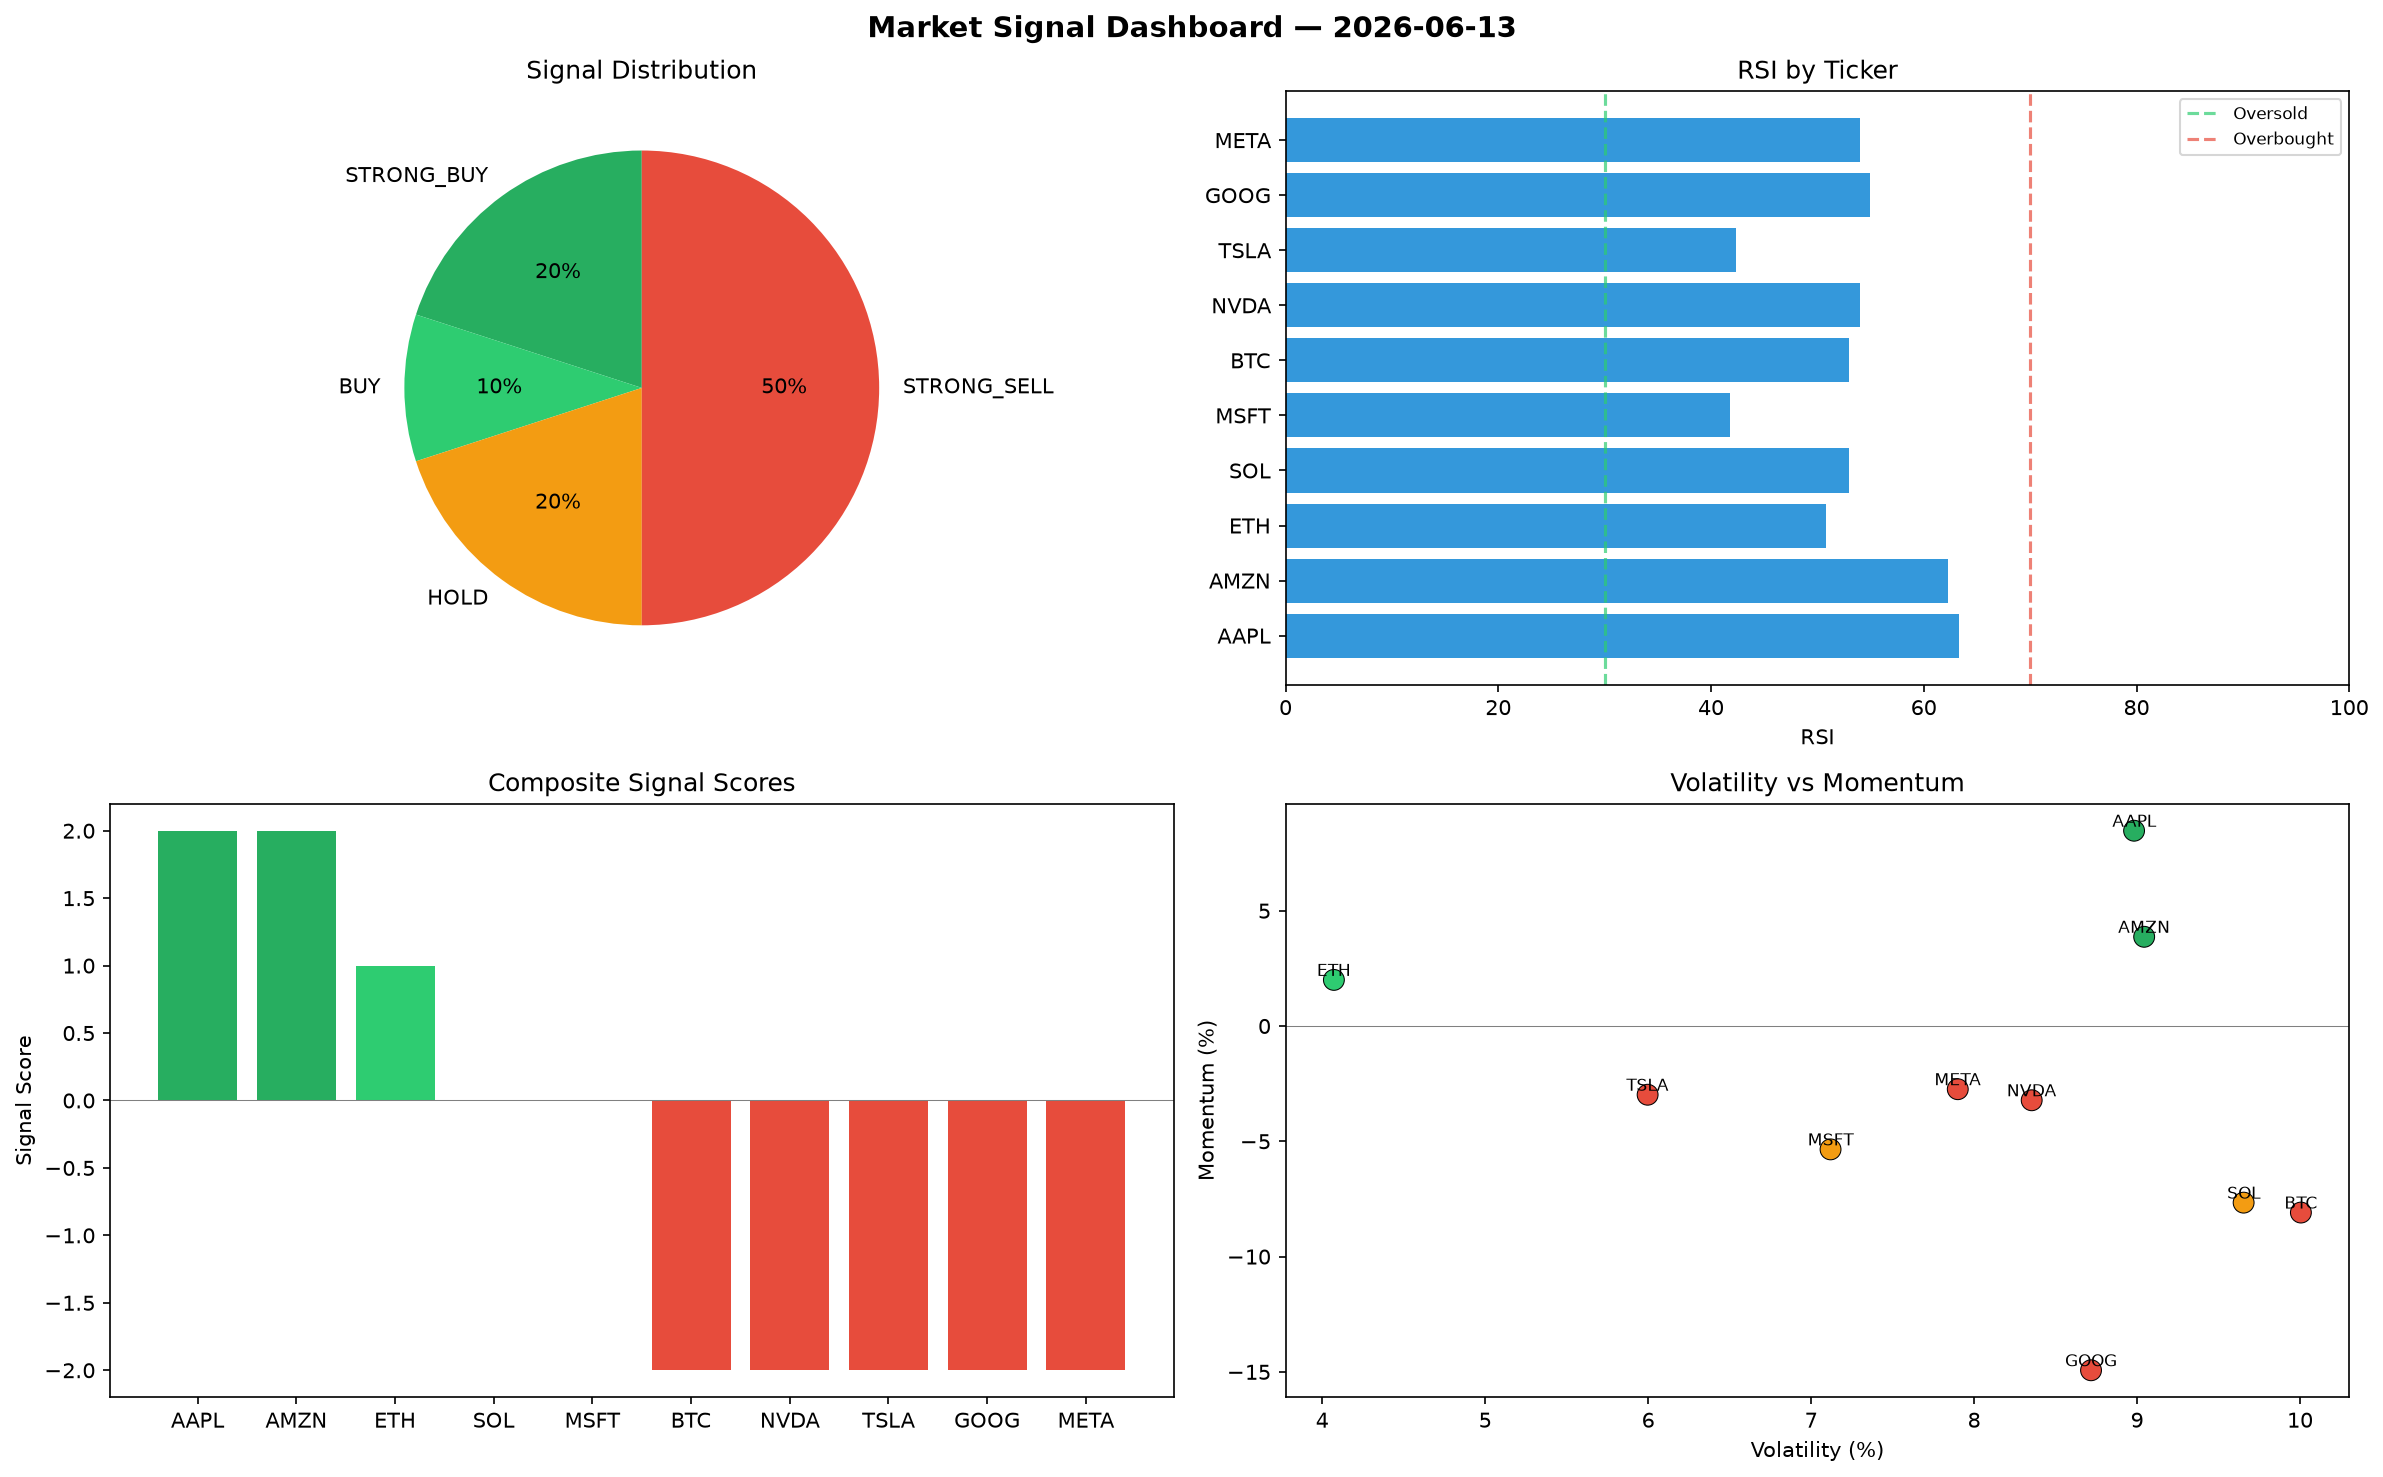
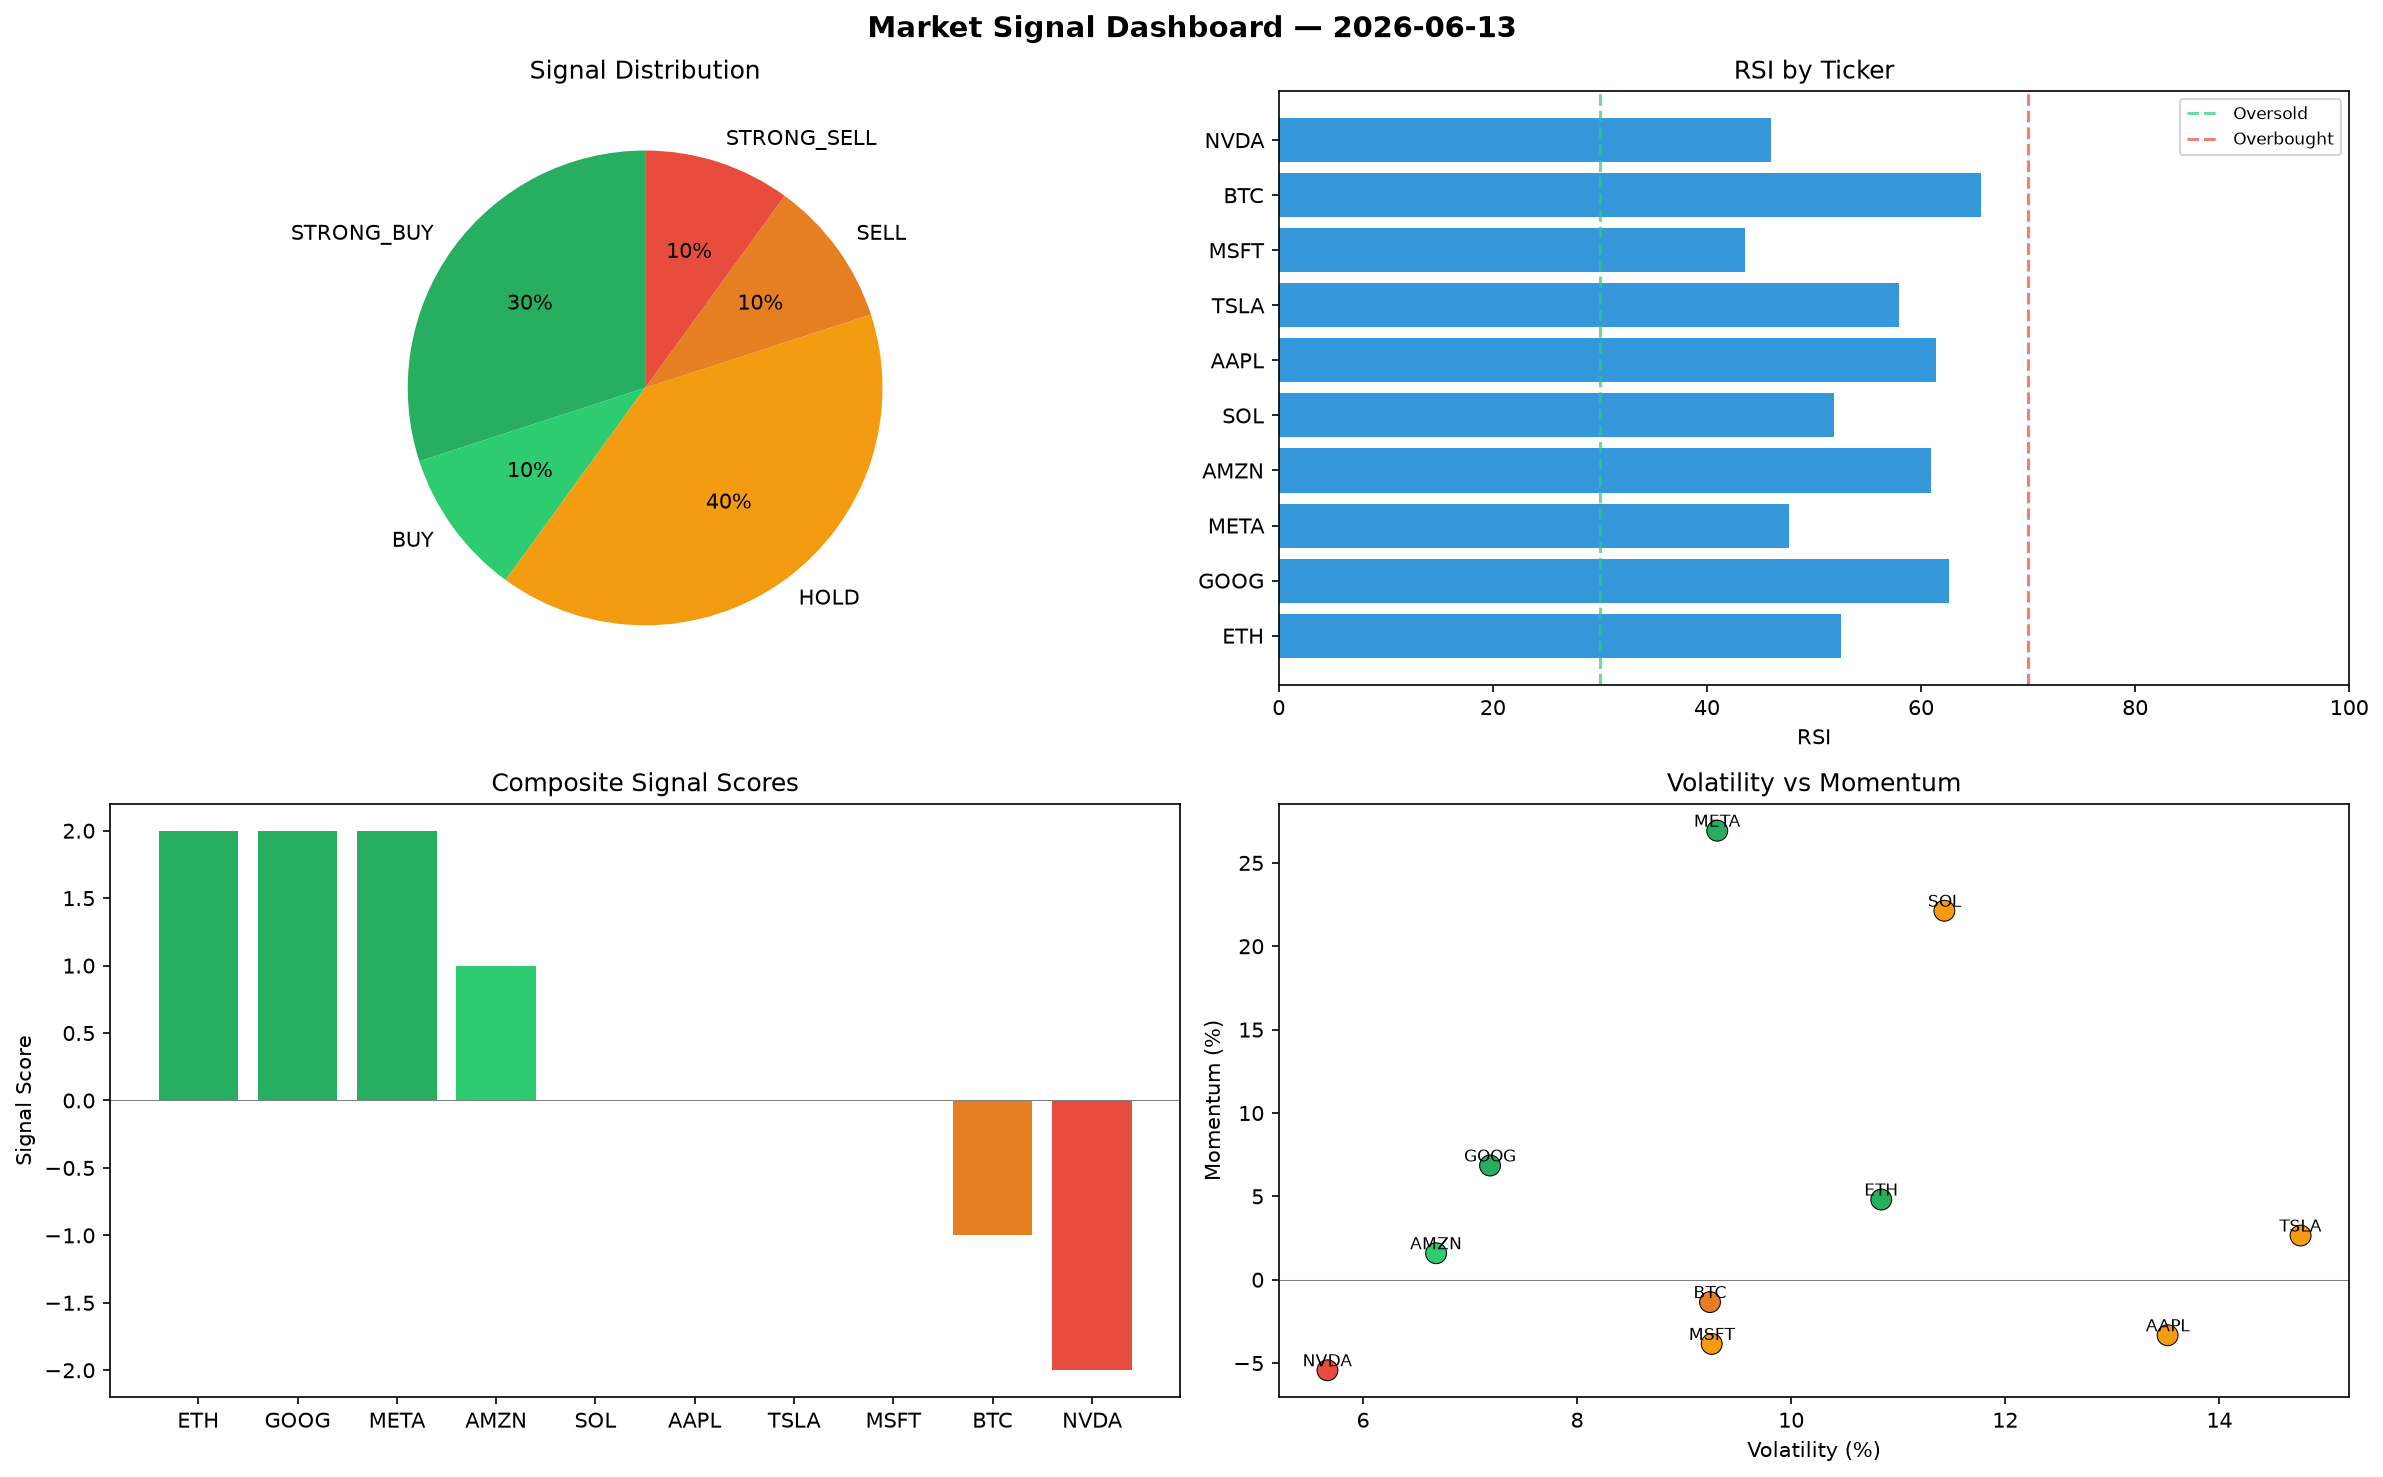
automated-bots: market signals 2026-06-13T15:57

diff --git a/logs/2026-06-13.md b/logs/2026-06-13.md
@@ -1,6 +1,6 @@
 # Market Signal Report — 2026-06-13
 
-**Run ID:** `507dca95e6` | **Buy:** 3 | **Sell:** 5 | **Hold:** 2
+**Run ID:** `92a570e33b` | **Buy:** 4 | **Sell:** 2 | **Hold:** 4
 
 ![Dashboard](2026-06-13_dashboard.png)
 
@@ -8,28 +8,28 @@
 
 | Ticker | Price | Signal | Score | RSI | Momentum | Confidence |
 |--------|-------|--------|-------|-----|----------|------------|
-| AAPL | $1438.26 | **STRONG_BUY** | 2 | 63.29 | 0.0847 | 0.5 |
-| AMZN | $1487.13 | **STRONG_BUY** | 2 | 62.3 | 0.0387 | 0.5 |
-| ETH | $3952.69 | **BUY** | 1 | 50.78 | 0.02 | 0.25 |
-| SOL | $3623.8 | **HOLD** | 0 | 52.99 | -0.0766 | 0.0 |
-| MSFT | $4567.88 | **HOLD** | 0 | 41.82 | -0.0535 | 0.0 |
-| BTC | $527.64 | **STRONG_SELL** | -2 | 52.94 | -0.0809 | 0.5 |
-| NVDA | $4246.74 | **STRONG_SELL** | -2 | 53.96 | -0.0322 | 0.5 |
-| TSLA | $40.34 | **STRONG_SELL** | -2 | 42.33 | -0.0298 | 0.5 |
-| GOOG | $2479.17 | **STRONG_SELL** | -2 | 54.93 | -0.1493 | 0.5 |
-| META | $805.95 | **STRONG_SELL** | -2 | 53.97 | -0.0274 | 0.5 |
+| ETH | $1987.8 | **STRONG_BUY** | 2 | 52.49 | 0.0481 | 0.5 |
+| GOOG | $1584.75 | **STRONG_BUY** | 2 | 62.6 | 0.0685 | 0.5 |
+| META | $1925.62 | **STRONG_BUY** | 2 | 47.63 | 0.2693 | 0.5 |
+| AMZN | $601.72 | **BUY** | 1 | 60.9 | 0.0159 | 0.25 |
+| SOL | $5164.64 | **HOLD** | 0 | 51.9 | 0.2213 | 0.0 |
+| AAPL | $3279.43 | **HOLD** | 0 | 61.35 | -0.0333 | 0.0 |
+| TSLA | $4806.75 | **HOLD** | 0 | 57.96 | 0.0265 | 0.0 |
+| MSFT | $4484.79 | **HOLD** | 0 | 43.57 | -0.0385 | 0.0 |
+| BTC | $3434.06 | **SELL** | -1 | 65.57 | -0.0134 | 0.25 |
+| NVDA | $4104.68 | **STRONG_SELL** | -2 | 46.02 | -0.0543 | 0.5 |
 
 ## Delta vs Yesterday
 
 | Ticker | Today | Yesterday | Price Change | Signal Changed |
 |--------|-------|-----------|-------------|----------------|
-| AAPL | STRONG_BUY | STRONG_BUY | 📉 -49.52% | — |
-| AMZN | STRONG_BUY | SELL | 📈 191.5% | ⚠ YES |
-| ETH | BUY | BUY | 📈 36.67% | — |
-| SOL | HOLD | STRONG_BUY | 📈 239.39% | ⚠ YES |
-| MSFT | HOLD | STRONG_SELL | 📈 141.2% | ⚠ YES |
-| BTC | STRONG_SELL | STRONG_BUY | 📉 -81.16% | ⚠ YES |
-| NVDA | STRONG_SELL | STRONG_BUY | 📈 23.41% | ⚠ YES |
-| TSLA | STRONG_SELL | STRONG_BUY | 📉 -98.75% | ⚠ YES |
-| GOOG | STRONG_SELL | STRONG_BUY | 📉 -11.38% | ⚠ YES |
-| META | STRONG_SELL | STRONG_SELL | 📉 -61.87% | — |
+| ETH | STRONG_BUY | BUY | 📉 -31.27% | ⚠ YES |
+| GOOG | STRONG_BUY | STRONG_BUY | 📉 -43.35% | — |
+| META | STRONG_BUY | STRONG_SELL | 📉 -8.9% | ⚠ YES |
+| AMZN | BUY | SELL | 📈 17.95% | ⚠ YES |
+| SOL | HOLD | STRONG_BUY | 📈 383.7% | ⚠ YES |
+| AAPL | HOLD | STRONG_BUY | 📈 15.09% | ⚠ YES |
+| TSLA | HOLD | STRONG_BUY | 📈 48.7% | ⚠ YES |
+| MSFT | HOLD | STRONG_SELL | 📈 136.81% | ⚠ YES |
+| BTC | SELL | STRONG_BUY | 📈 22.64% | ⚠ YES |
+| NVDA | STRONG_SELL | STRONG_BUY | 📈 19.28% | ⚠ YES |
